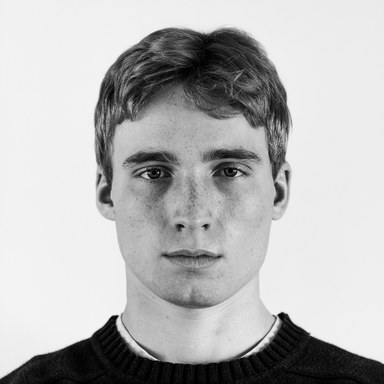
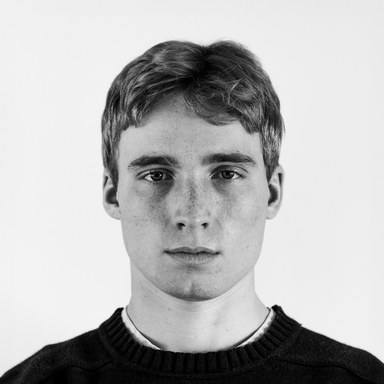
Profile photo crop

diff --git a/index.html b/index.html
@@ -79,7 +79,7 @@
     <main class="ed" id="main" tabindex="-1">
       <!-- ===== Hero: a profile photo, then the introduction as one sentence of display type ===== -->
       <section class="ed-hero" aria-labelledby="intro">
-        <img class="ed-avatar" src="img/avatar.jpg?v=4" alt="Ryan Greene" width="384" height="384" fetchpriority="high">
+        <img class="ed-avatar" src="img/avatar.jpg?v=6" alt="Ryan Greene" width="384" height="384" fetchpriority="high">
         <h1 class="ed-sentence" id="intro"><strong>I’m Ryan Greene</strong>, a Computer Science and Mathematics student at <strong class="hc-word" tabindex="0" aria-describedby="hc-nu">Northeastern<span class="hc" id="hc-nu" aria-hidden="true"><span class="hc-top"><img src="img/logos/northeastern.png" alt="" width="40" height="40"><span><span class="hc-t">Northeastern University</span><span class="hc-s">B.S. Computer Science, Minor in Mathematics</span></span></span><span class="hc-b">GPA 3.74 · Dean’s List · Dean’s Scholarship</span><span class="hc-f">Boston, MA</span></span></strong>, currently interning at <strong class="hc-word" tabindex="0" aria-describedby="hc-ft">Flow Traders<span class="hc" id="hc-ft" aria-hidden="true"><span class="hc-top"><img src="img/logos/flow-traders.png" alt="" width="40" height="40"><span><span class="hc-t">Flow Traders</span><span class="hc-s">Trading Infrastructure Engineer Intern</span></span></span><span class="hc-b">Building automation and monitoring for trading infrastructure across the US, Europe and Asia.</span><span class="hc-f">Jul 2026 – Present · Manhattan, NY</span></span></strong> in <span class="hc-word" tabindex="0" aria-describedby="hc-ny">New York<span class="hc" id="hc-ny" aria-hidden="true"><span class="hc-top"><span><span class="hc-t">New York</span><span class="hc-s">Local time</span></span></span><span class="hc-clock"><time class="ny-time"></time></span><span class="hc-f">Manhattan, NY</span></span></span>. Here’s some of what I’ve been building.</h1>
         <div class="ed-actions">
           <a class="btn btn-primary" href="mailto:greene.ry@northeastern.edu">Get in touch</a>
